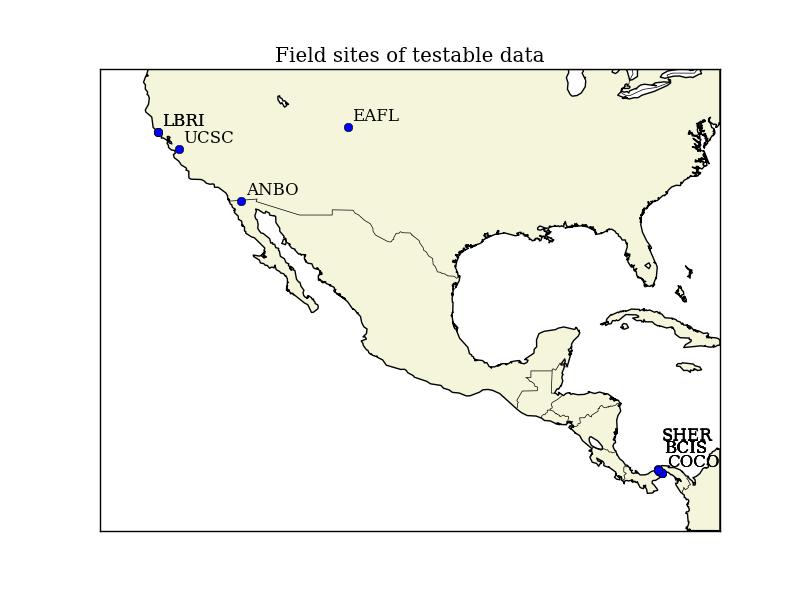
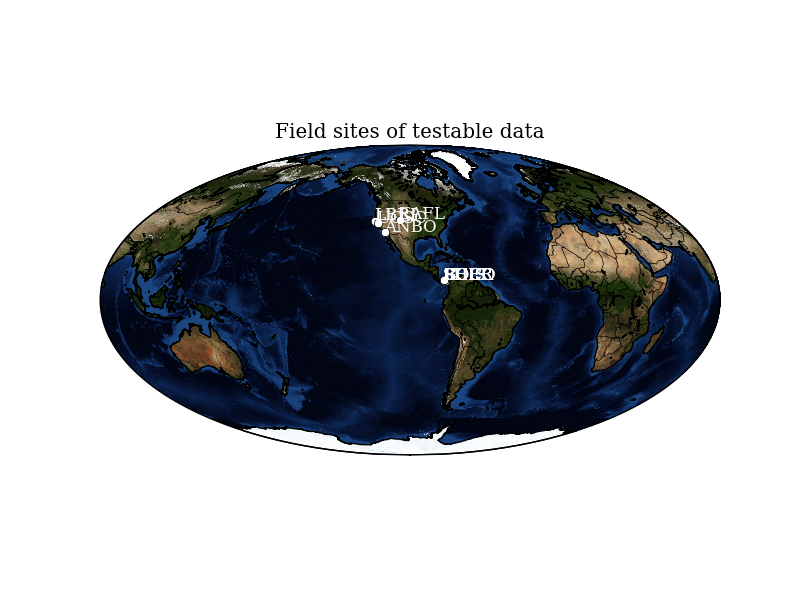
Blue marble background

diff --git a/code/map_sites.py b/code/map_sites.py
@@ -27,17 +27,18 @@ m = Basemap(projection='cyl', lat_0=50, lon_0=-100,
             urcrnrlon=max(lons)+5, urcrnrlat=max(lats)+5,
             resolution='l')
 
+m.bluemarble()
 m.drawcoastlines()
 m.drawcountries()
-m.fillcontinents(color='beige')
+#m.fillcontinents(color='beige') #Not with bluemarble
 m.drawmapboundary()
 
 x, y = m(lons, lats)
-m.plot(x, y, 'bo')
+m.plot(x, y, 'wo')
 for n, xpt, ypt in zip(names,x,y):
     if n == 'BCIS': ypt += 1 #Cleanup for crowded areas 
     if n == 'SHER': ypt += 2
-    plt.text(xpt+.5,ypt+.5,n)
+    plt.text(xpt+.5,ypt+.5,n,color='white')
 plt.title('Field sites of testable data')
 plt.savefig('sites_map.png')
 plt.show()
